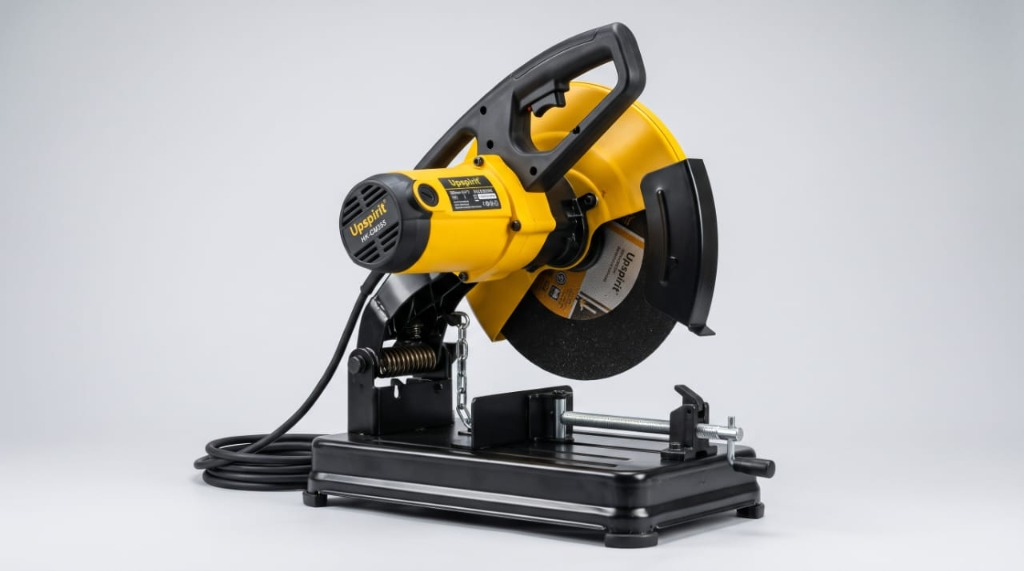
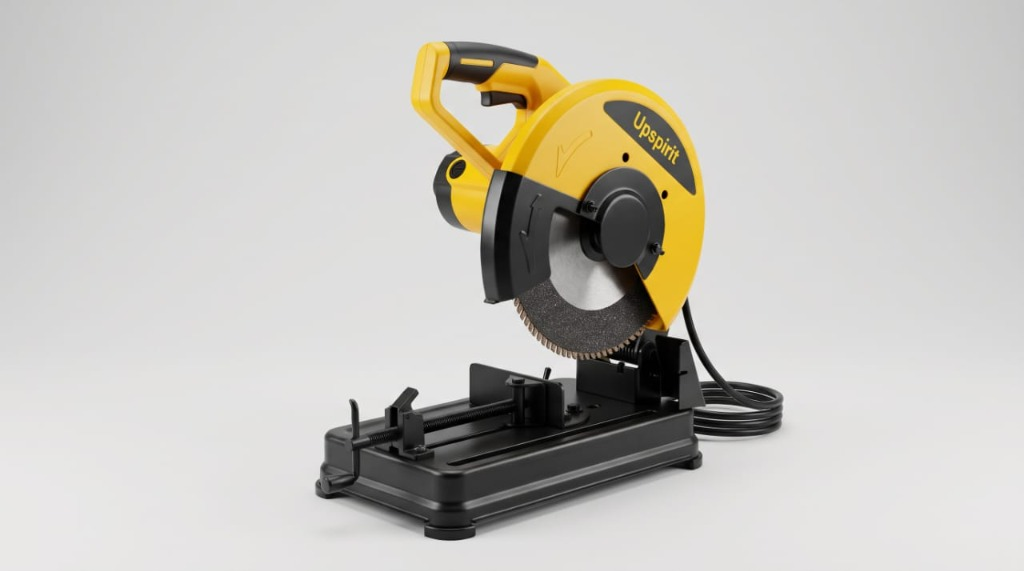
feat(nav): suppression lien avis et ajout gap aéré navbar + mise a jour images coffret 46 pcs et tronconneuse 355mm

Changed region(s): [[0.1875, 0.0298, 0.7812, 0.9825], [0.9688, 0.7145, 1.0, 0.8039], [0.0, 0.7145, 0.0312, 0.7741]]

diff --git a/script.js b/script.js
@@ -83,27 +83,27 @@ const PRODUCTS = [
     },
     {
         "id": "p4",
-        "name": "Plateau outillage clés mixtes & pinces atelier",
-        "name_en": "Workshop Combination Wrenches & Pliers Tray",
+        "name": "Coffret à douilles et cliquet 46 pièces UPSPIRIT",
+        "name_en": "46-Piece Ratchet, Sockets & Bits Tool Set UPSPIRIT",
         "category": "outillage",
         "brand": "UPSPIRIT",
         "image": "images/p4.jpg",
         "icon": "fa-solid fa-wrench",
-        "role_badge": "Clés mixtes & Pinces bi-matière",
-        "role_badge_en": "Wrenches & Dual-Material Pliers",
-        "role": "Plateau thermoformé d'atelier comprenant un jeu de clés mixtes plates et à œil en acier chromé et 5 pinces professionnelles bi-matière (coupante, clé à molette, multiprise, bec long et universelle).",
-        "role_en": "Heavy-duty molded workshop tray featuring a set of chrome combination wrenches and 5 dual-material mechanic pliers (diagonal cutter, adjustable wrench, water pump plier, long nose, and combination plier).",
+        "role_badge": "Coffret cliquet 1/4\" & 46 pcs",
+        "role_badge_en": "1/4\" Ratchet & 46-Pc Socket Set",
+        "role": "Coffret antichoc jaune et noir de marque officielle UPSPIRIT contenant 46 pièces : cliquet réversible 1/4\" ergonomique, douilles acier chrome-vanadium 4 à 14 mm, poignée coulissante en T, rallonges, cardan et assortiment complet d'embouts Torx, Hex, plats et Phillips.",
+        "role_en": "Genuine UPSPIRIT 46-piece shockproof mechanics set: 1/4\" quick-release reversible ratchet, 4 to 14mm CR-V steel sockets, sliding T-bar, extensions, universal joint and full Torx/Hex/Phillips bit collection.",
         "specs": [
-            "Jeu de clés mixtes chromées",
-            "5 pinces d'atelier bi-matière",
-            "Clé à molette & multiprise",
-            "Plateau thermoformé rigide"
+            "Marque officielle UPSPIRIT",
+            "Cliquet réversible 1/4\" ergonomique",
+            "Douilles 4 à 14 mm & rallonges",
+            "Embouts de précision & coffret rigide"
         ],
         "specs_en": [
-            "Chrome combination wrenches",
-            "5 dual-material pliers",
-            "Adjustable wrench & pump plier",
-            "Rigid molded storage tray"
+            "Official UPSPIRIT brand",
+            "Ergonomic 1/4\" quick-release ratchet",
+            "4 to 14mm sockets & extension bars",
+            "Precision bits & rugged carry case"
         ]
     },
     {

diff --git a/index.html b/index.html
@@ -69,7 +69,6 @@
                     <li><a href="#accueil" class="nav-link active"><i class="fa-solid fa-house"></i> <span data-i18n="nav_home">Accueil</span></a></li>
                     <li><a href="#apropos" class="nav-link"><i class="fa-solid fa-circle-info"></i> <span data-i18n="nav_about">À Propos</span></a></li>
                     <li><a href="#machines" class="nav-link"><i class="fa-solid fa-gears"></i> <span data-i18n="nav_machines">Machines & Outils (36)</span></a></li>
-                    <li class="hide-on-mobile"><a href="#temoignages" class="nav-link"><i class="fa-solid fa-comments"></i> <span data-i18n="nav_reviews">Avis</span></a></li>
                     <li class="hide-on-mobile"><a href="#faq" class="nav-link"><i class="fa-solid fa-circle-question"></i> <span data-i18n="nav_faq">FAQ</span></a></li>
                     <li><a href="#contact" class="nav-link"><i class="fa-solid fa-envelope"></i> <span data-i18n="nav_contact">Contact</span></a></li>
                 </ul>

diff --git a/style.css b/style.css
@@ -337,6 +337,7 @@ button, input, select {
     align-items: center;
     justify-content: space-between;
     height: 76px;
+    gap: 2.5rem;
 }
 
 .logo {
@@ -402,7 +403,7 @@ button, input, select {
 .nav-list {
     display: flex;
     align-items: center;
-    gap: 1.8rem;
+    gap: 2.2rem;
 }
 
 .nav-link {
@@ -412,9 +413,10 @@ button, input, select {
     color: var(--text-secondary);
     display: flex;
     align-items: center;
-    gap: 0.4rem;
-    padding: 0.5rem 0;
+    gap: 0.5rem;
+    padding: 0.5rem 0.2rem;
     position: relative;
+    transition: color var(--transition-fast);
 }
 
 .nav-link::after {
@@ -439,7 +441,7 @@ button, input, select {
 .header-actions {
     display: flex;
     align-items: center;
-    gap: 1rem;
+    gap: 1.25rem;
 }
 
 .cart-btn {
@@ -2954,7 +2956,7 @@ button, input, select {
     .nav-list {
         flex-direction: column;
         align-items: stretch;
-        gap: 0.5rem;
+        gap: 0.85rem;
         width: 100%;
     }
 
